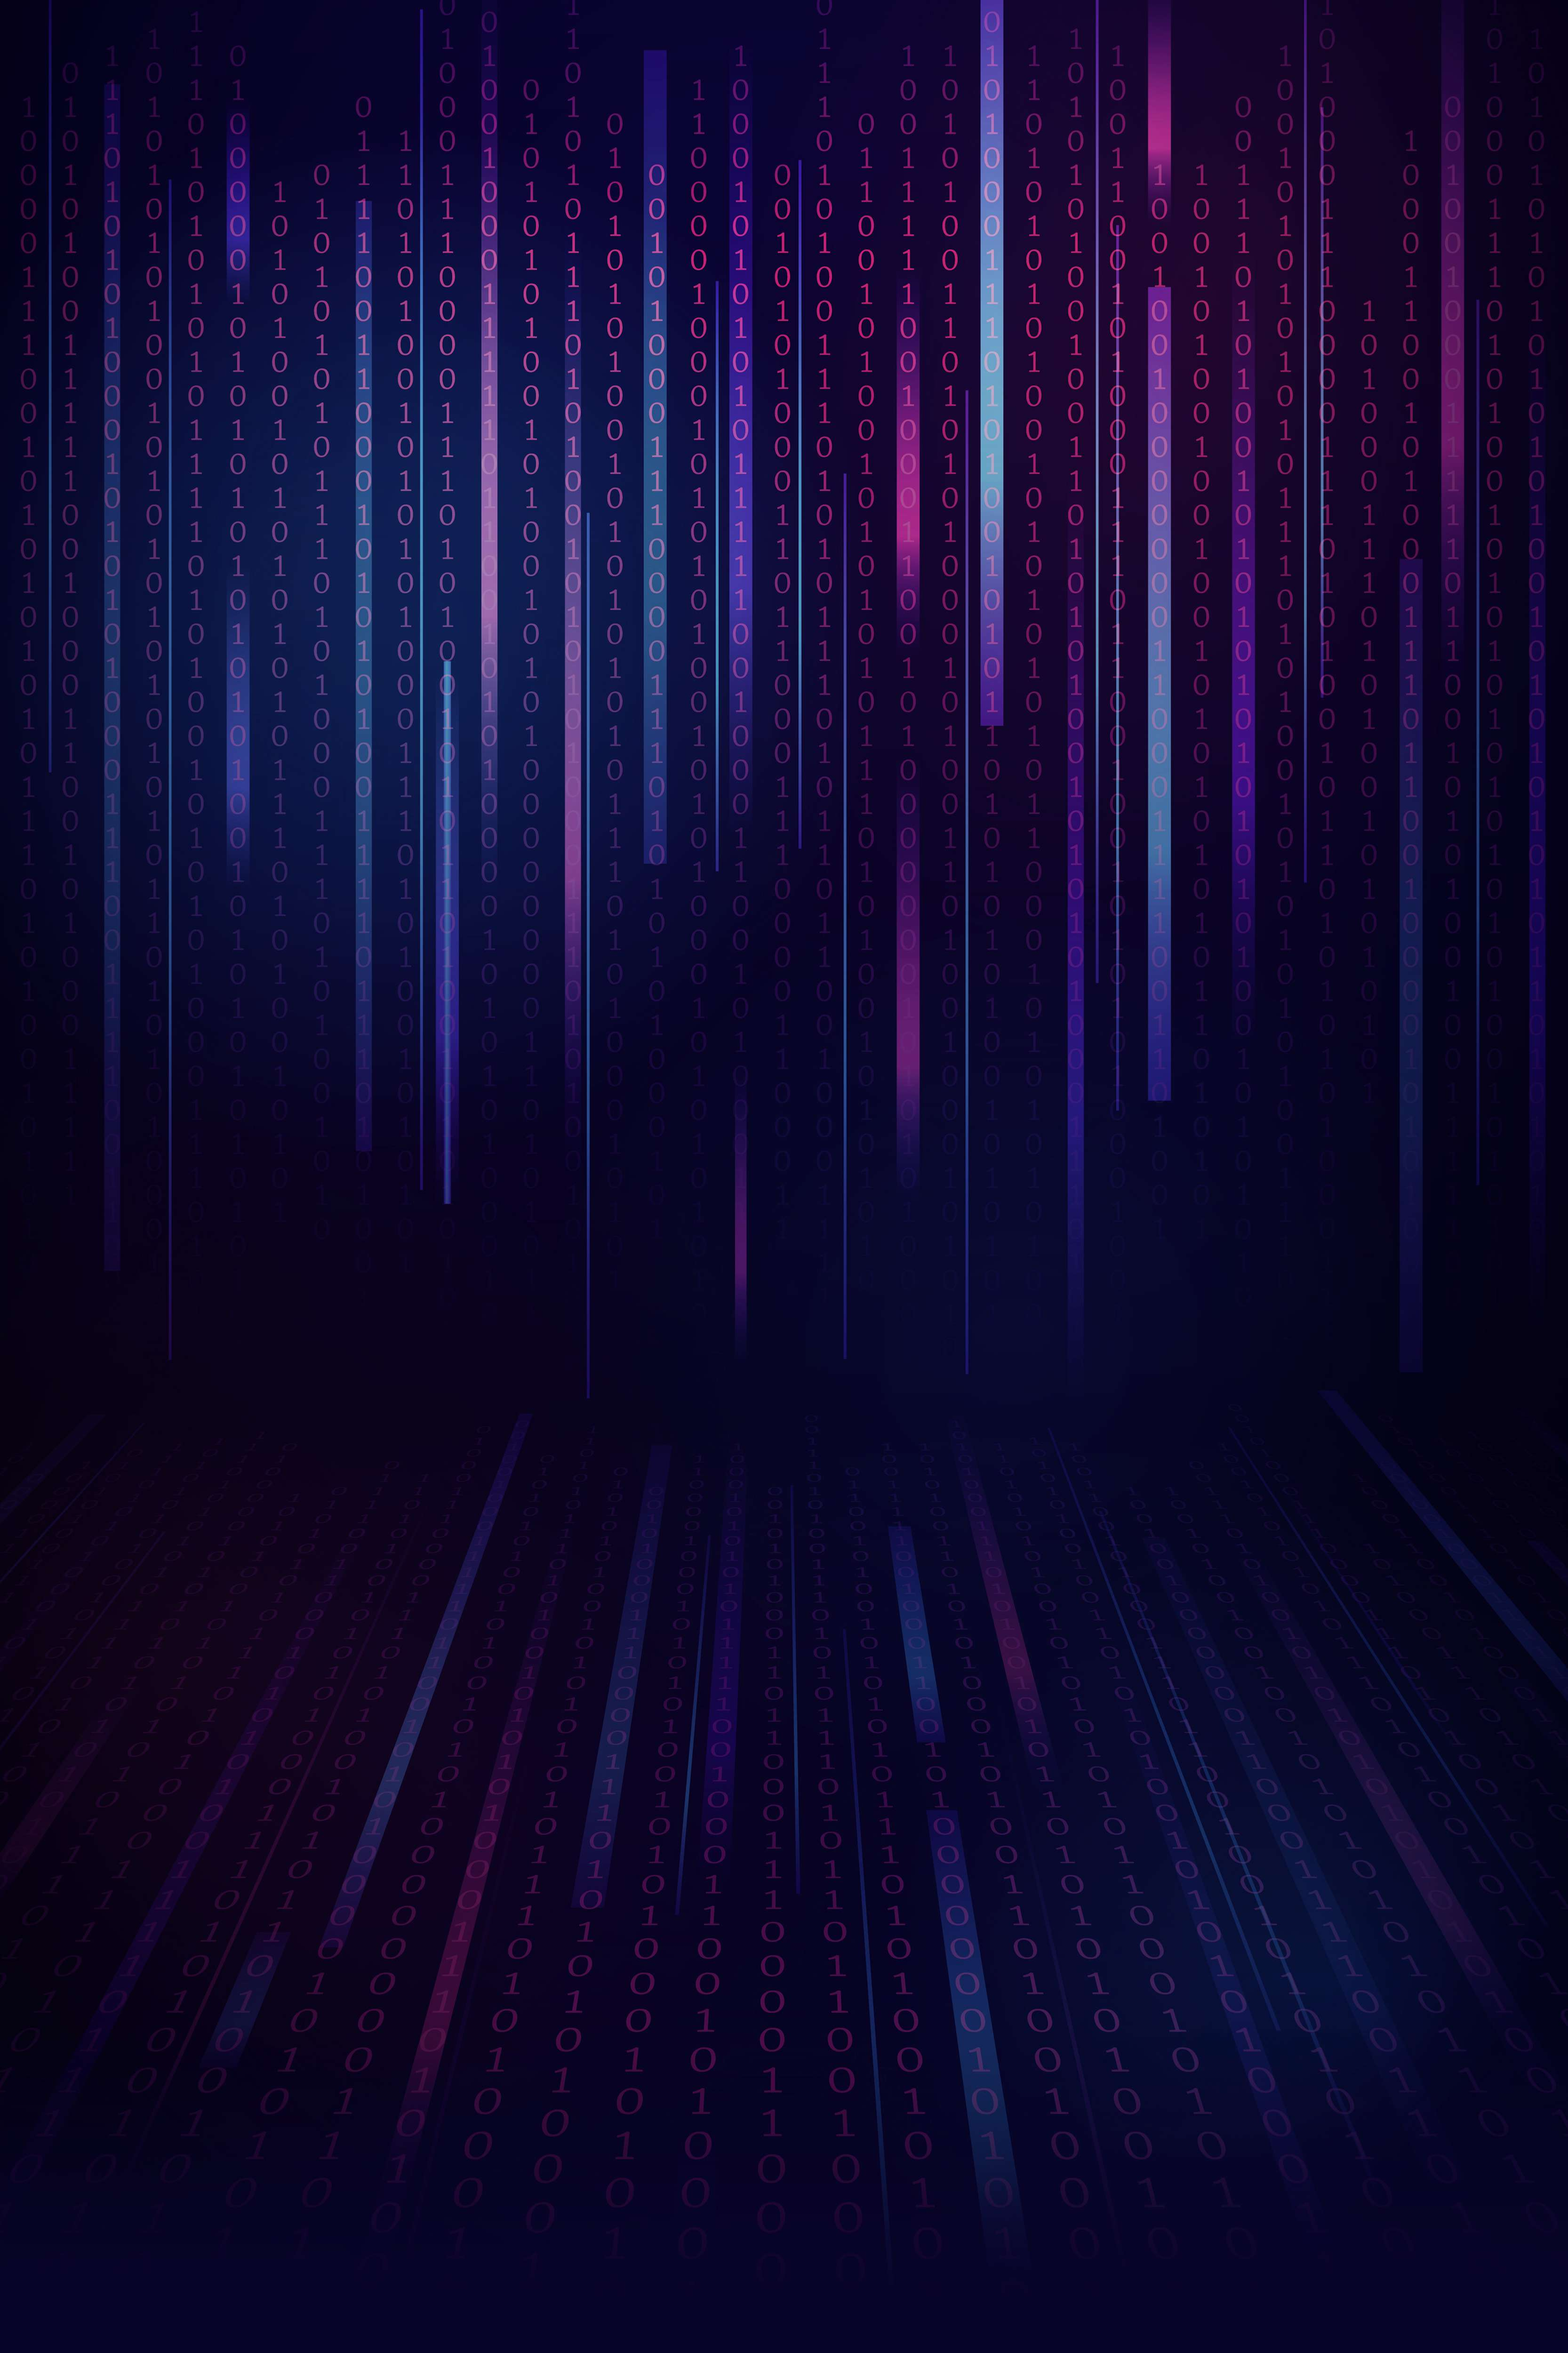
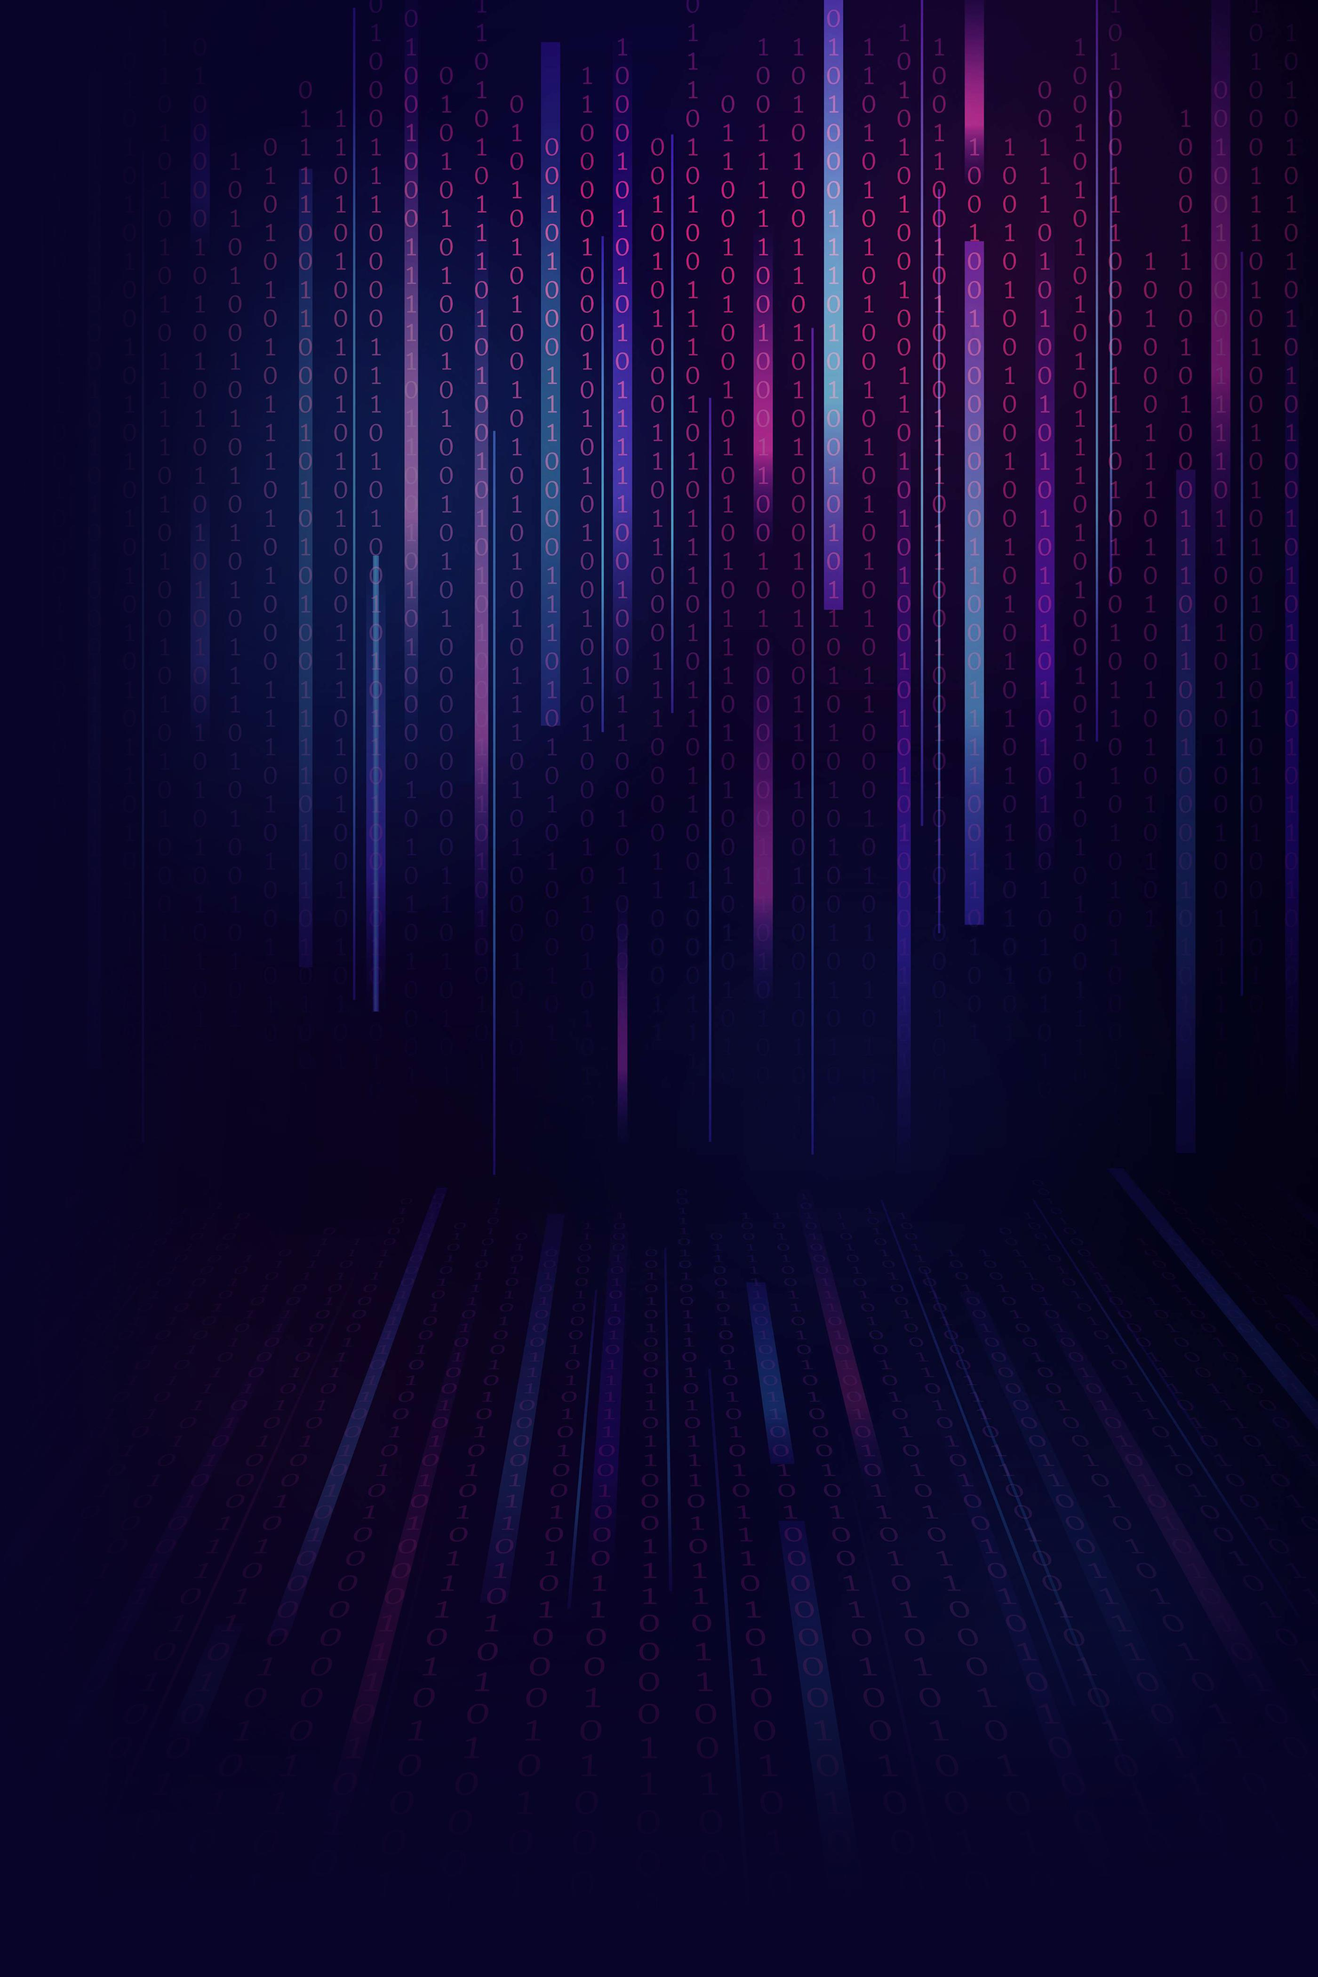
Adding Text to AMS Page
-Added Text to page
-Updated background image to merge better
-added test page for mcsa development.

diff --git a/test_mcsa.php b/test_mcsa.php
@@ -71,9 +71,7 @@
                             <figcaption>Welcome Page for the Academic Management System</figcaption>
                         </figure>
                         <article>
-                            <p>This system is able to store Pupil and Parent information, combine that with attendances and links with several API's to further extend its functionality.</p>
-                            <p>This project has a fully functional tiered permissions system and significant integrations into the companies Google Drive, which stores the companies academic course materials.</p>
-                            <p>Lastly, with the bespoke solution in place, we have created several large extensions to the system which have dramatically improved its capability and the staff's productivity.</p>
+                            <p>Introduction</p>
                         </article>
                     </div>
                     <div class="equal-div80-header-left">
@@ -90,9 +88,7 @@
                             <figcaption>Timetable User Interface - Responsive Design</figcaption>
                         </figure>
                         <article>
-                            <p>One of the unique design decisions and features is the Timetable system, having a long list of courses was not feasible when we store hundreds of courses over an academic year.</p>
-                            <p>This design allows a great visual management system which allows the company to get a full understanding of the term, courses and pupil registers within a few seconds without any searching required.</p>
-                            <p>Once completed this timetable can also be printed with term specific timetable notes for parents to reference with rich text functionality, giving the company significant flexibility on what they can do and offer.</p>
+                            <p>Introduction</p>
                         </article>
                     </div>
                     <div class="equal-div80-header-left">
@@ -109,9 +105,7 @@
                             <figcaption>Modular Design - Infinitly Customisable</figcaption>
                         </figure>
                         <article>
-                            <p>Built from the ground up to be customisible, this system allows a modular design to decrease the need for bug/unit testing and provides a quick and easy way to extend the system to any companies needs.</p>
-                            <p>Using an easy to understand codebase and complete documentation will allow others to take the system and provide further inhouse customisations.</p>
-                            <p>Created from modern languages such as PHP, Javascript, CSS and HTML5, powered by Industry Standard MySQL Database Storage technologies which allows portability and remote access to the database through VPN.</p>
+                            <p>Introduction</p>
                         </article>
                     </div>
                     <div class="equal-div80-header-left">
@@ -128,9 +122,7 @@
                             <figcaption>Branch Management - Live & Beta - Remote Update System</figcaption>
                         </figure>
                         <article>
-                            <p>All experimental features are built on a remote testbed with significant unit testing performed ensuring minimal distruption during updates.</p>
-                            <p>We manage multiple branches to allow a larger collaborative effort with staff and stakeholders.</p>
-                            <p>We also provide a remote update & management solution whcih means that distance is no hinderance in our bespoke software development, we can further extend this to development in AWS Cloud or Microsoft Azure.  For remote mananagement solutions, the sky's the limit!</p>
+                            <p>Introduction</p>
                         </article>
                     </div>
                     <div class="equal-div80-header-left">
@@ -143,9 +135,7 @@
                 </div>
                     <div class="equal-div80">
                         <article>
-                            <p>After development has finished, that doesn't mean our commitment ends.  We offer a very competititive & comprehensive maitenance solution, which integrates in platform management, regular updates and a total backup database solution with multiple redundencies.</p>  
-                            <p>We gaurantee 99.5% uptime on all of our larger scale solutions, making sure that your system is there when you need it!</p>
-                            <p>If you're interested in this solution or a similar customized solution, contact us below or reach out on our social media channels and we will develop a design brief for you to review.</p>
+                            <p>Introduction</p>
                         </article>
                     </div>
                 </section>
